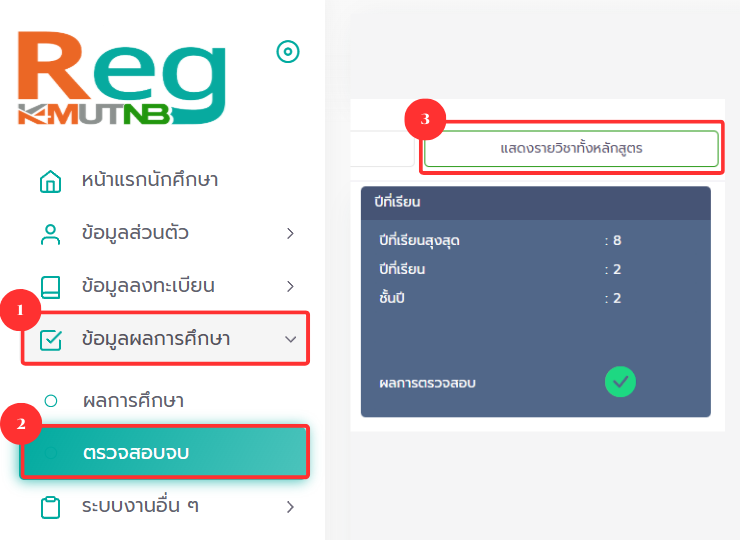
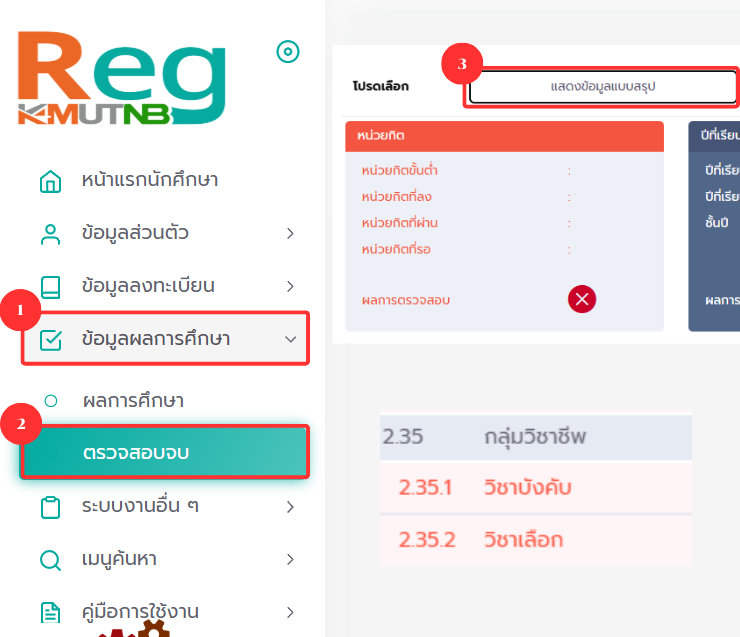
แก้ไข popup ก่อนแก้ไขเกรด + เพิ่มรูปภาพ

diff --git a/cslogbook/frontend/src/components/StudentProfile.js b/cslogbook/frontend/src/components/StudentProfile.js
@@ -488,7 +488,7 @@ const StudentProfile = () => {
         <Row gutter={16}>
           <Col span={12}>
             <p>
-              <strong>2. หน่วยกิตภาควิชา (รายวิชา 0406xxxxx)</strong>
+              <strong>2.หน่วยกิตรวมวิชาภาค (รายวิชา 0406xxxxx)</strong>
             </p>
             <ul>
               <li>
@@ -503,11 +503,17 @@ const StudentProfile = () => {
               <li>
                 <strong>แสดงรายวิชาทั้งหลักสูตร </strong>
               </li>
+              <li>
+                <strong>นำ </strong>หน่วยกิตวิชาบังคับและหน่วยกิตวิชาเลือกมารวมกัน
+              </li>
+              
+                
+              
             </ul>
           </Col>
 
           <Col span={12}>
-            <strong>วิธีการตรวจสอบ : หน่วยกิตภาควิชา</strong>
+            <strong>วิธีการตรวจสอบ : หน่วยกิตรวมวิชาภาค</strong>
             <img
               src={CreditsImage2}
               alt="รูปภาพประกอบ"
